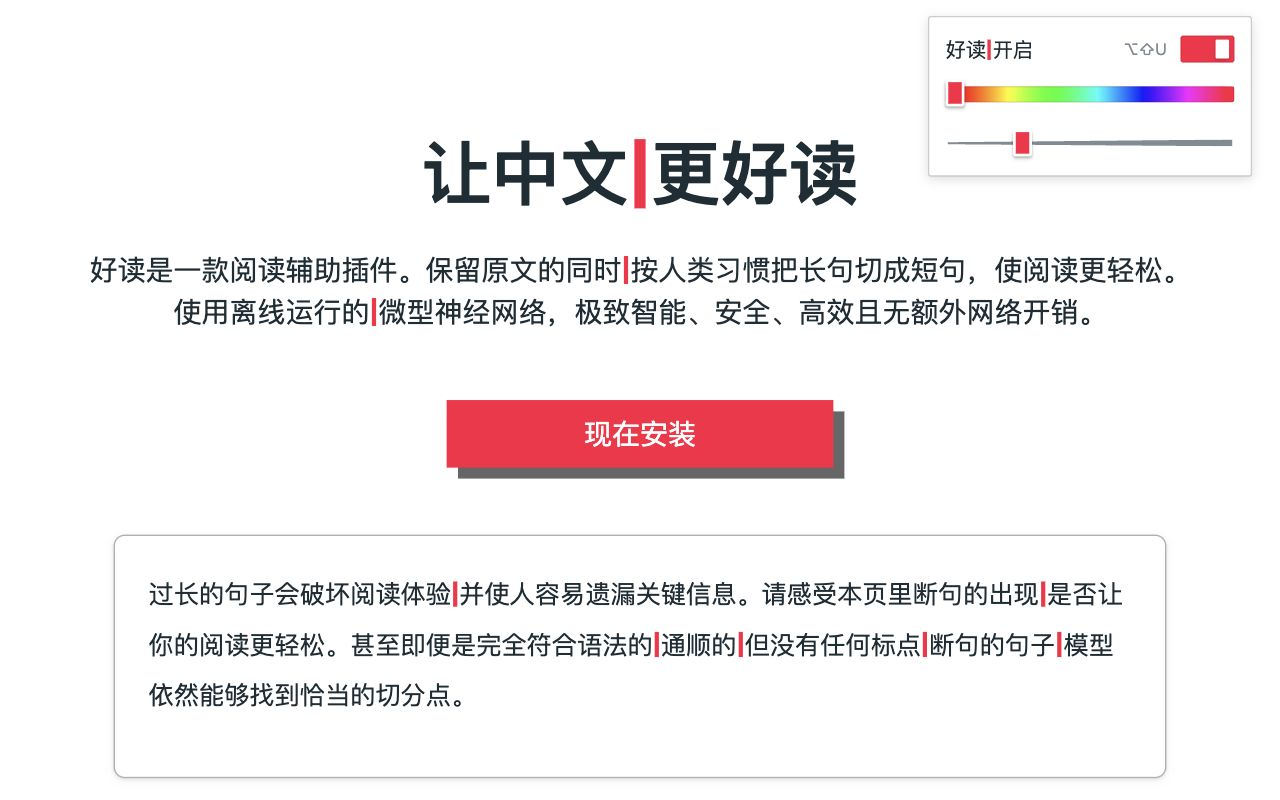
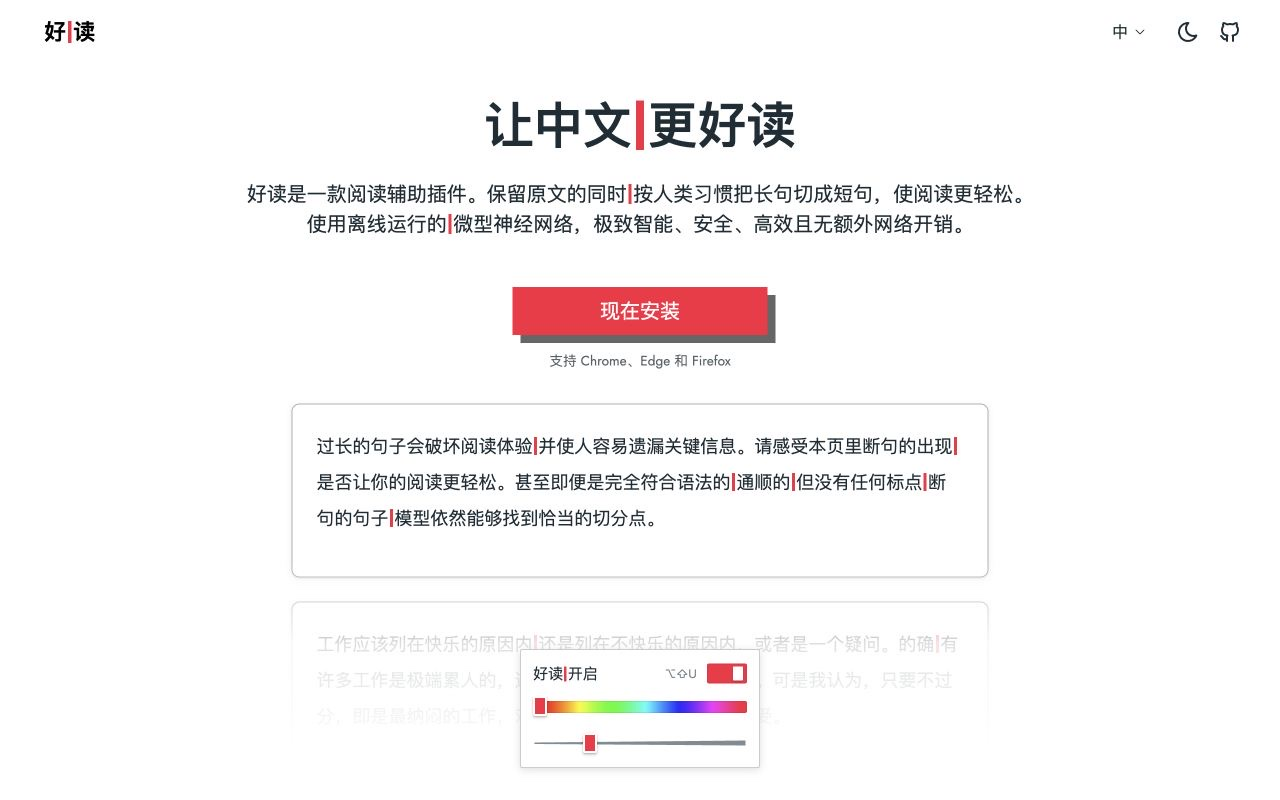
docs(assets): refresh screenshots with the current site and E6 model
替换发布材料中仍在使用的旧首页及 E4 模型截图，让当前素材与
现有站点布局、控件和 E6 best 后端一致；旧图保留在 Git 历史中。

- 重新截取当前首页，展示 Chrome、Edge、Firefox 支持提示及
  底部悬浮预览控件，更新 README 和站点分享图共用的截图资源。
- 新增控件截图页，从最新 Hugo 预览构建读取真实控件 HTML，
  加载当前站点样式和预览交互，仅调整截图的比例及居中布局，
  避免另存一份会随时间失效的控件模板。
- 使用当前 Worker、E6 best 权重及后端对固定的 198 字例文
  实际推理，得到 14 个切点，与 Node 后端结果完全一致。
- 同步三组 JPG/PNG，均为 1280×800；检查真实文件头、格式及
  JPEG 的 RGB/无透明通道属性，避免只修改扩展名导致上传失败。
- 移除截图页对旧实验编号的依赖，更新 Chrome/Edge 素材来源、
  模型检查点和复现方法，明确新素材尚未上传，也不能据此认定
  已提交的 0.3.0 安装包包含后补的样式修复。

验证：浏览器画面及 14 个切点核对、六张图片格式与尺寸检查、
截图页脚本语法、相对链接、站点预览构建和 SEO 检查通过；
git diff --cached --check 通过。运行代码、模型权重和现存三个
0.3.0 安装/源码 ZIP 的哈希保持不变。

diff --git a/release/assets/store-controls-preview.html b/release/assets/store-controls-preview.html
@@ -1,0 +1,56 @@
+<!doctype html>
+<html lang="zh-CN" data-bs-theme="light">
+<meta charset="utf-8">
+<meta name="viewport" content="width=device-width, initial-scale=1">
+<meta name="robots" content="noindex">
+<meta name="haodu" content="off">
+<title>好读控件截图</title>
+<style>
+  html, body { margin: 0; min-height: 100vh; background: #fff; }
+  body { display: grid; place-items: center; }
+  .reader-preview-controls {
+    position: static !important;
+    inset: auto !important;
+    margin: 0 !important;
+    transform: scale(3.5);
+    transform-origin: center;
+  }
+</style>
+<body data-preview-state="loading">
+<script src="../../src/divider-color.js"></script>
+<script src="../../src/divider-width.js"></script>
+<script type="module">
+  import { initReaderPreview } from "../../site/assets/js/reader-preview.js";
+
+  try {
+    // Read the current Hugo build instead of keeping a second controls template.
+    const previewRoot = new URL("../../dist/site-preview/", location.href);
+    const response = await fetch(new URL("index.html", previewRoot));
+    if (!response.ok) throw new Error("Run npm run release:site:preview before opening this page.");
+    const page = new DOMParser().parseFromString(await response.text(), "text/html");
+    const controls = page.querySelector("[data-reader-controls]");
+    if (!controls) throw new Error("The site build does not contain reader controls.");
+    const styles = Array.from(page.querySelectorAll('link[rel="stylesheet"]'), (source) => {
+      const link = document.createElement("link");
+      link.rel = "stylesheet";
+      link.href = new URL(source.getAttribute("href").replace(/^\//, ""), previewRoot).href;
+      const loaded = new Promise((resolve, reject) => {
+        link.addEventListener("load", resolve, { once: true });
+        link.addEventListener("error", reject, { once: true });
+      });
+      document.head.prepend(link);
+      return loaded;
+    });
+    document.body.append(document.importNode(controls, true));
+    initReaderPreview();
+    await Promise.all(styles);
+    await document.fonts.ready;
+    document.body.dataset.previewState = "ready";
+  } catch (error) {
+    document.body.dataset.previewState = "error";
+    document.body.append(document.createTextNode(error.message));
+    console.error(error);
+  }
+</script>
+</body>
+</html>

diff --git a/release/assets/store-model-reading-preview.html b/release/assets/store-model-reading-preview.html
@@ -26,9 +26,8 @@
 </head>
 <body data-model-state="loading">
   <main>
-    <!-- Source: six existing reading examples from the epoch 3/4 comparison
-         (IDs 305, 306, 67, 70, 86, 69), joined without changing their wording.
-         No manual dividers: use the current model and default confidence gate. -->
+    <!-- Fixed reading examples; no manual dividers. Always use the current
+         checked-out model and backend, with the default confidence gate. -->
     <p id="passage">阅读一本书的时候我们常常会因为某个熟悉的细节想起自己的经历。真正困难的并不是记住所有答案而是学会提出能够推动思考的问题。如果文字能够在适当的位置稍作停顿，理解作者想要表达的意思就会轻松一些。只要保留原文内容并在合适的位置添加分隔线，就能帮助读者更快地看清句子的结构。阅读速度并不是越快越好，真正重要的是能否理解并记住所读到的内容。每天抽出一点时间阅读，长期坚持下来就会发现自己的理解能力有所提高。</p>
   </main>
   <script src="../../src/frontend/write.js"></script>

diff --git a/release/chrome-web-store.md b/release/chrome-web-store.md
@@ -65,10 +65,11 @@
 - 128 × 128 图标：`icons/on-128.png`，已包含在 ZIP。
 - 440 × 280 小宣传图：[store-promo-440x280.jpg](assets/store-promo-440x280.jpg)，对应可编辑源文件 [store-promo-440x280.svg](assets/store-promo-440x280.svg)。
 - 1400 × 560 横幅宣传图（Marquee）：[store-marquee-1400x560.jpg](assets/store-marquee-1400x560.jpg)，RGB JPEG，无透明通道；对应可编辑源文件 [store-marquee-1400x560.svg](assets/store-marquee-1400x560.svg)。
-- 官网首页截图：[store-screenshot-1280x800.jpg](assets/store-screenshot-1280x800.jpg)，摄于 2026-10-15。截图专用页面复用首页源码，放大标题、介绍与第一段阅读示例，将 controls 放在右上角；只调整截图构图，不改变正式站点布局。
-- Controls 特写：[store-controls-1280x800.jpg](assets/store-controls-1280x800.jpg)，摄于 2026-10-15，复用官网现有 controls 的 HTML、CSS 和交互代码，等比例放大 4.35 倍并居中，展示开关、快捷键、颜色与粗细调节。
+- 官网首页截图：[store-screenshot-1280x800.jpg](assets/store-screenshot-1280x800.jpg)，摄于 2026-10-21，来自当前首页，包含浏览器支持提示及底部悬浮 controls。
+- Controls 特写：[store-controls-1280x800.jpg](assets/store-controls-1280x800.jpg)，摄于 2026-10-21。[截图用页面](assets/store-controls-preview.html) 从最新的 `dist/site-preview/index.html` 读取 controls，复用当前官网的样式和交互代码，等比例放大并居中，展示开关、快捷键、颜色与粗细调节；不维护第二份控件模板。
 - 上述两张截图均为 1280 × 800、RGB JPEG，无透明通道，按首页、controls 特写的顺序上传至 Screenshots。官网示例使用固定切分点；图片展示界面与阅读效果，不代表当前模型对示例的实时推理结果。
-- 纯文字模型切分：[store-model-reading-1280x800.jpg](assets/store-model-reading-1280x800.jpg)，摄于 2026-10-15，1280 × 800、RGB JPEG，无透明通道。选取现有模型对比例句中的 6 条阅读长句，保持原文拼成 198 字段落；0.2.0 内置的 epoch 4 模型在默认严格大于 45% 的置信度门槛下生成 13 个分隔点，使用默认红色与第二档粗细。画面只有正文和分隔线，可作为第三张 Screenshots 上传。[截图用页面](assets/store-model-reading-preview.html) 直接复用扩展的 Worker、模型、标记写入代码及 CSS，没有手工指定切点；页面通过 `haodu=off` 标记避免已安装扩展重复处理。
+- 纯文字模型切分：[store-model-reading-1280x800.jpg](assets/store-model-reading-1280x800.jpg)，摄于 2026-10-21，1280 × 800、RGB JPEG，无透明通道。固定的 6 条阅读例句合计 198 字，由当前 E6 best 模型和后端在默认严格大于 45% 的置信度门槛下实际推理，生成 14 个分隔点，使用默认红色与第二档粗细。[截图用页面](assets/store-model-reading-preview.html) 直接复用扩展的 Worker、模型、标记写入代码及 CSS，没有手工指定切点；页面通过 `haodu=off` 标记避免已安装扩展重复处理。`#passage` 的 `data-offsets` 保存本次实际切点，可与同一源码的 `chunker.process()` 结果核对；模型身份以 `getModelInfo()` 的 epoch 和检查点哈希为准。
+- 三张截图同时维护同名 PNG，供 Edge 使用。旧的 2026-10-15 首页与 E4 模型截图保留在 Git 历史中；不要将旧图或旧模型的切点数作为当前版本的运行结果。
 - 真实扩展截图用例：[store-reading-preview.html](assets/store-reading-preview.html)。该页没有阅读脚本，也没有人工插入的正文分隔线。通过本地 HTTP 服务打开后，开启待发布扩展，确认分隔线实际出现，再按 1280 × 800 截图。不能将未处理页面或人工标记页面描述为扩展运行结果。
 
 ```sh
@@ -76,13 +77,19 @@ python3 -m http.server 8096 --bind 127.0.0.1 --directory release/assets
 # 打开 http://127.0.0.1:8096/store-reading-preview.html
 ```
 
-重新截取纯文字模型效果时，从仓库根目录启动服务，以便页面加载 `src/` 中的实际运行文件：
+重新截取首页和控件前，先运行 `npm run release:site:preview`。首页通过 `python3 -m http.server 8097 --bind 127.0.0.1 --directory dist/site-preview` 打开，在 1280 × 800 视口下截图。该首页是静态演示，不加载模型。
+
+控件及纯文字模型截图从仓库根目录启动服务，以便加载当前站点构建和 `src/` 中的实际运行文件：
 
 ```sh
 python3 -m http.server 8098 --bind 127.0.0.1
+# 控件：http://127.0.0.1:8098/release/assets/store-controls-preview.html
+# 等待 body 的 data-preview-state 变为 ready 后截图。
 # 打开 http://127.0.0.1:8098/release/assets/store-model-reading-preview.html
 # 视口设为 1280 × 800，等待 body 的 data-model-state 变为 ready 后截图。
 ```
+
[1 lines of base64/hex data omitted]
 
 ## 官方要求
 

diff --git a/release/edge-addons.md b/release/edge-addons.md
@@ -55,7 +55,7 @@ npm run release:extension
 - 小宣传图（可选）：`release/assets/store-promo-440x280.png`（440 × 280）
 - 大宣传图（可选）：`release/assets/store-marquee-1400x560.png`（1400 × 560）
 
-Edge 上传使用 PNG；上述截图和宣传图由同名 JPG 转换，保持原尺寸和画面，原 JPG 保留供其他引用使用。前两张截图展示官网固定示例及 controls；第三张纯文字切分截图来自 E4 模型。仅转换图片格式，不宣称是 E6 实时推理结果。
+Edge 上传使用 PNG。三张截图于 2026-10-21 重新制作，同名 JPG 供 Chrome 使用，尺寸均为 1280 × 800；首页和 controls 来自当前站点，纯文字截图使用当前 E6 best 模型及后端实际推理，198 字正文包含 14 个分隔点。模型身份、截图入口及与已提交包的区别见 [Chrome 图片材料](chrome-web-store.md#图片材料)。宣传图保留 JPG / PNG 两种格式；旧截图可从 Git 历史恢复。
 
 ### 详细介绍
 
